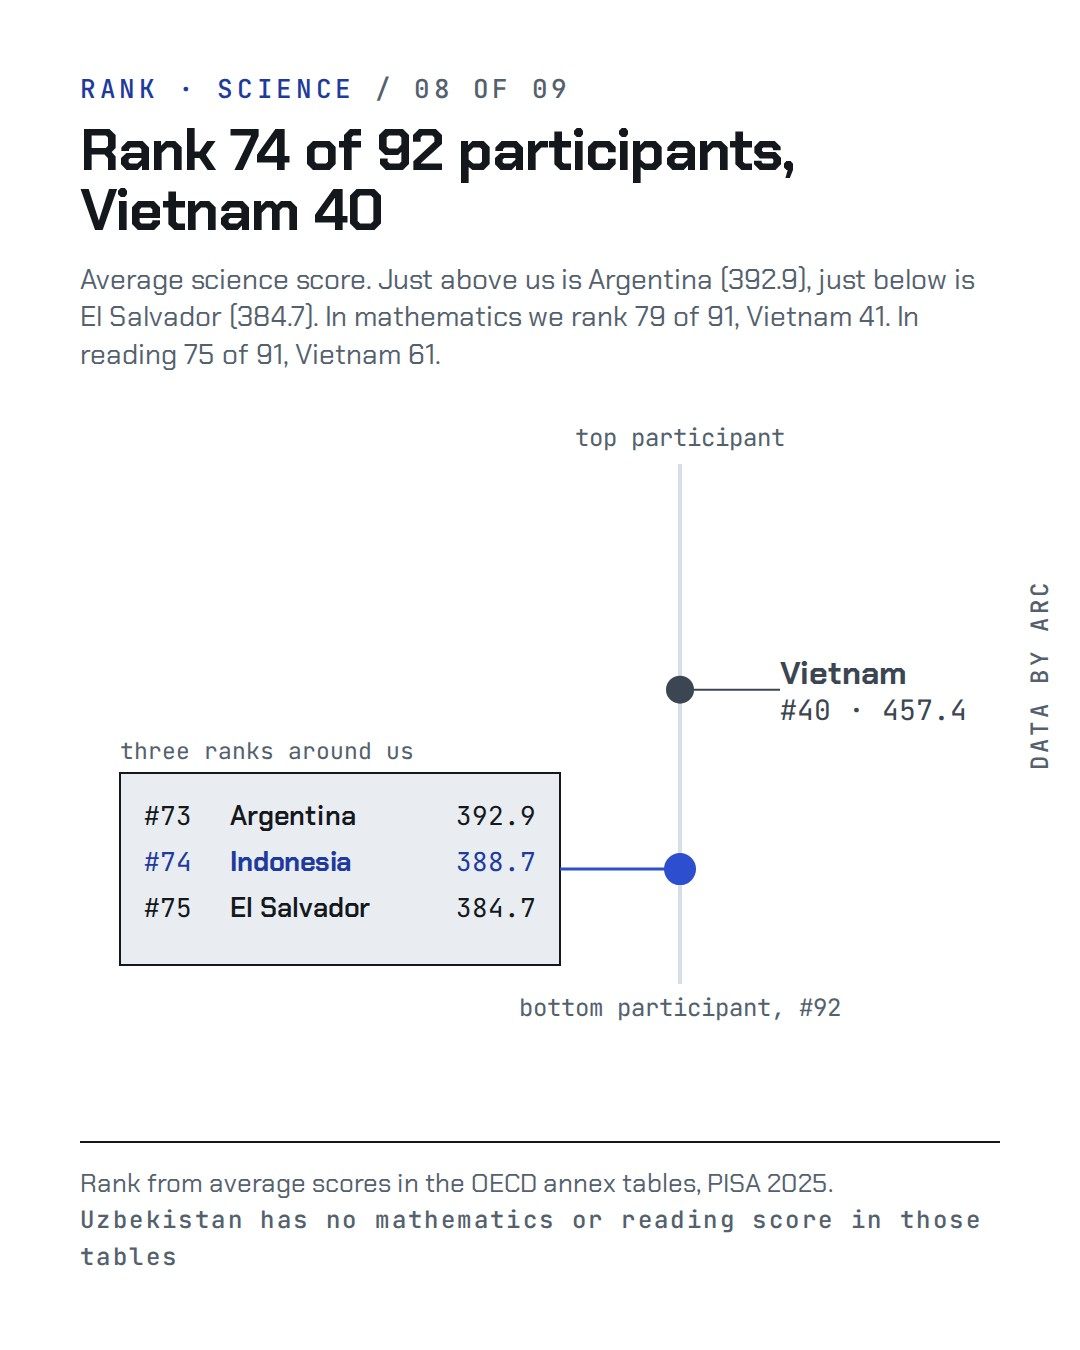
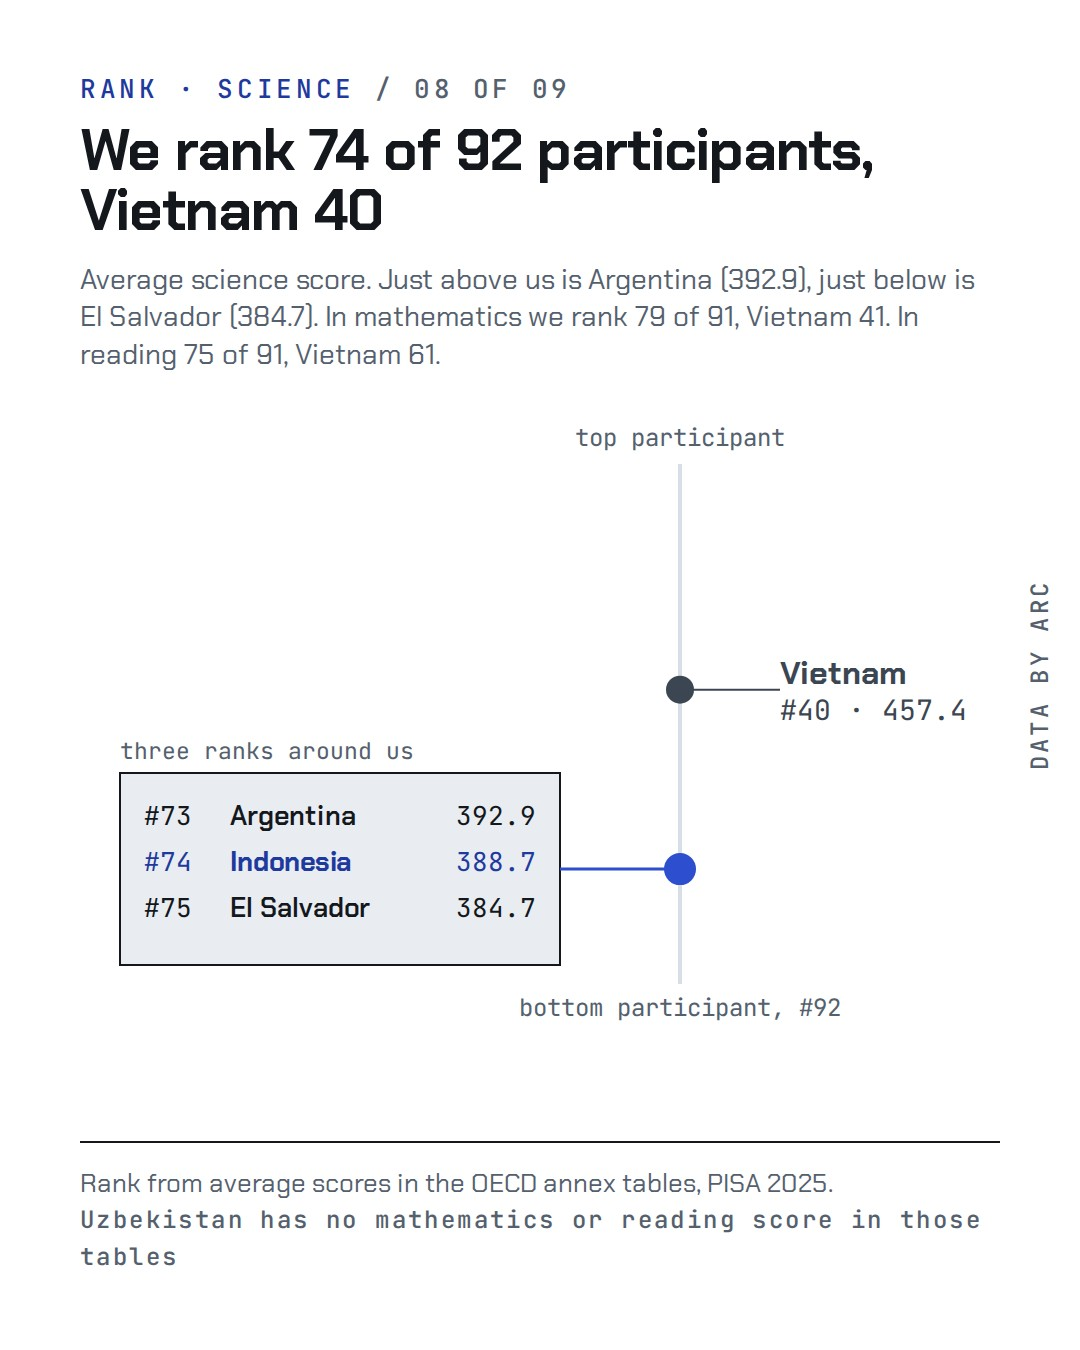
Poles copy versi Inggris seri 2 (5 kalimat)

Changed region(s): [[0.0611, 0.0933, 0.7944, 0.1556]]

diff --git a/index.html b/index.html
@@ -100,7 +100,7 @@ Menurut kamu, yang paling menentukan: kualitas guru, kurikulum, atau hal di luar
       <li><a href="pisa-piramida-en/slide5.jpg"><img src="pisa-piramida-en/slide5.jpg" alt="Slide 5: The same shape in all three subjects" width="1080" height="1350" loading="lazy"></a><p class="cap">Slide 5: The same shape in all three subjects</p></li>
       <li><a href="pisa-piramida-en/slide6.jpg"><img src="pisa-piramida-en/slide6.jpg" alt="Slide 6: The top levels are thin in every subject" width="1080" height="1350" loading="lazy"></a><p class="cap">Slide 6: The top levels are thin in every subject</p></li>
       <li><a href="pisa-piramida-en/slide7.jpg"><img src="pisa-piramida-en/slide7.jpg" alt="Slide 7: The gap is bigger than its error bar" width="1080" height="1350" loading="lazy"></a><p class="cap">Slide 7: The gap is bigger than its error bar</p></li>
-      <li><a href="pisa-piramida-en/slide8.jpg"><img src="pisa-piramida-en/slide8.jpg" alt="Slide 8: Rank 74 of 92 participants, Vietnam 40" width="1080" height="1350" loading="lazy"></a><p class="cap">Slide 8: Rank 74 of 92 participants, Vietnam 40</p></li>
+      <li><a href="pisa-piramida-en/slide8.jpg"><img src="pisa-piramida-en/slide8.jpg" alt="Slide 8: We rank 74 of 92 participants, Vietnam 40" width="1080" height="1350" loading="lazy"></a><p class="cap">Slide 8: We rank 74 of 92 participants, Vietnam 40</p></li>
       <li><a href="pisa-piramida-en/slide9.jpg"><img src="pisa-piramida-en/slide9.jpg" alt="Slide 9: How we worked it out" width="1080" height="1350" loading="lazy"></a><p class="cap">Slide 9: How we worked it out</p></li>
   </ul>
   <h2>Caption Instagram, pisa-piramida-en</h2>
